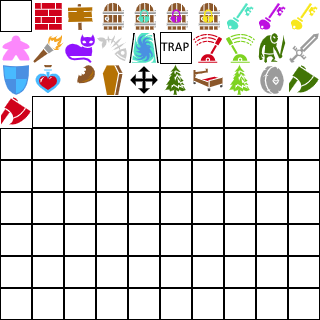
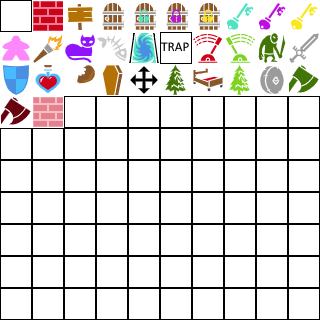
updating to use cell descriptors

Changed region(s): [[0.0, 0.2812, 0.2188, 0.4062], [0.0938, 0.0, 0.2188, 0.0938]]

diff --git a/public/scripts/cells.js b/public/scripts/cells.js
@@ -29,126 +29,145 @@ const CELL_TREE_CHOPPABLE = 27;
 const CELL_WHET_STONE = 28;
 const CELL_AXE_USABLE = 29;
 const CELL_AXE_DULL = 30;
+const CELL_FAKE_WALL = 31;
 
-let cellSprites = {};
-cellSprites[CELL_BED]=SPRITE_BED;
-cellSprites[CELL_TREE_CHOPPABLE]=SPRITE_TREE_CHOPPABLE;
-cellSprites[CELL_WHET_STONE]=SPRITE_WHET_STONE;
-cellSprites[CELL_AXE_USABLE]=SPRITE_AXE_USABLE;
-cellSprites[CELL_AXE_DULL]=SPRITE_AXE_DULL;
-cellSprites[CELL_TREE]=SPRITE_TREE;
-cellSprites[CELL_HEALTH_POTION]=SPRITE_HEALTH_POTION;
-cellSprites[CELL_CHICKEN_LEG]=SPRITE_CHICKEN_LEG;
-cellSprites[CELL_COFFIN]=SPRITE_COFFIN;
-cellSprites[CELL_MINION]=SPRITE_MINION;
-cellSprites[CELL_BROADSWORD]=SPRITE_BROADSWORD;
-cellSprites[CELL_SHIELD]=SPRITE_SHIELD;
-cellSprites[CELL_LEVER_RED]=SPRITE_LEVER_RED;
-cellSprites[CELL_LEVER_GREEN]=SPRITE_LEVER_GREEN;
-cellSprites[CELL_WALL]=SPRITE_WALL;
-cellSprites[CELL_AVATAR]=SPRITE_AVATAR;
-cellSprites[CELL_SIGN]=SPRITE_SIGN;
-cellSprites[CELL_WOOD_DOOR]=SPRITE_WOOD_DOOR;
-cellSprites[CELL_WOOD_DOOR_CYAN]=SPRITE_WOOD_DOOR_CYAN;
-cellSprites[CELL_WOOD_DOOR_MAGENTA]=SPRITE_WOOD_DOOR_MAGENTA;
-cellSprites[CELL_WOOD_DOOR_YELLOW]=SPRITE_WOOD_DOOR_YELLOW;
-cellSprites[CELL_KEY_CYAN]    = SPRITE_KEY_CYAN;
-cellSprites[CELL_KEY_MAGENTA] = SPRITE_KEY_MAGENTA;
-cellSprites[CELL_KEY_YELLOW]  = SPRITE_KEY_YELLOW;
-cellSprites[CELL_TORCH] = SPRITE_TORCH;
-cellSprites[CELL_CAT] = SPRITE_CAT;
-cellSprites[CELL_FISHBONE] = SPRITE_FISHBONE;
-cellSprites[CELL_MAGIC_PORTAL] = SPRITE_MAGIC_PORTAL;
+let cellDescriptors = {};
 class Cells{
+    static load(){
+        cellDescriptors[CELL_FAKE_WALL] = loadJSON("/assets/templates/cells/fakeWall.json");
+        cellDescriptors[CELL_FLOOR] = loadJSON("/assets/templates/cells/floor.json");
+        cellDescriptors[CELL_WALL] = loadJSON("/assets/templates/cells/wall.json");
+        cellDescriptors[CELL_SIGN] = loadJSON("/assets/templates/cells/sign.json");
+        cellDescriptors[CELL_WOOD_DOOR] = loadJSON("/assets/templates/cells/door.json");
+        cellDescriptors[CELL_WOOD_DOOR_CYAN] = loadJSON("/assets/templates/cells/cyanDoor.json");
+        cellDescriptors[CELL_WOOD_DOOR_MAGENTA] = loadJSON("/assets/templates/cells/magentaDoor.json");
+        cellDescriptors[CELL_WOOD_DOOR_YELLOW] = loadJSON("/assets/templates/cells/yellowDoor.json");
+        cellDescriptors[CELL_KEY_CYAN] = loadJSON("/assets/templates/cells/cyanKey.json");
+        cellDescriptors[CELL_KEY_MAGENTA] = loadJSON("/assets/templates/cells/magentaKey.json");
+        cellDescriptors[CELL_KEY_YELLOW] = loadJSON("/assets/templates/cells/yellowKey.json");
+        cellDescriptors[CELL_AVATAR] = loadJSON("/assets/templates/cells/avatar.json");
+        cellDescriptors[CELL_TORCH] = loadJSON("/assets/templates/cells/torch.json");
+        cellDescriptors[CELL_CAT] = loadJSON("/assets/templates/cells/cat.json");
+        cellDescriptors[CELL_FISHBONE] = loadJSON("/assets/templates/cells/fishbone.json");
+        cellDescriptors[CELL_MAGIC_PORTAL] = loadJSON("/assets/templates/cells/magicPortal.json");
+        cellDescriptors[CELL_TRAP] = loadJSON("/assets/templates/cells/trap.json");
+        cellDescriptors[CELL_LEVER_RED] = loadJSON("/assets/templates/cells/redLever.json");
+        cellDescriptors[CELL_LEVER_GREEN] = loadJSON("/assets/templates/cells/greenLever.json");
+        cellDescriptors[CELL_MINION] = loadJSON("/assets/templates/cells/minion.json");
+        cellDescriptors[CELL_BROADSWORD] = loadJSON("/assets/templates/cells/broadsword.json");
+        cellDescriptors[CELL_SHIELD] = loadJSON("/assets/templates/cells/shield.json");
+        cellDescriptors[CELL_HEALTH_POTION] = loadJSON("/assets/templates/cells/healthPotion.json");
+        cellDescriptors[CELL_CHICKEN_LEG] = loadJSON("/assets/templates/cells/chickenLeg.json");
+        cellDescriptors[CELL_COFFIN] = loadJSON("/assets/templates/cells/coffin.json");
+        cellDescriptors[CELL_MOVE] = loadJSON("/assets/templates/cells/move.json");
+        cellDescriptors[CELL_TREE] = loadJSON("/assets/templates/cells/tree.json");
+        cellDescriptors[CELL_BED] = loadJSON("/assets/templates/cells/bed.json");
+        cellDescriptors[CELL_TREE_CHOPPABLE] = loadJSON("/assets/templates/cells/choppableTree.json");
+        cellDescriptors[CELL_WHET_STONE] = loadJSON("/assets/templates/cells/whetStone.json");
+        cellDescriptors[CELL_AXE_USABLE] = loadJSON("/assets/templates/cells/usableAxe.json");
+        cellDescriptors[CELL_AXE_DULL] = loadJSON("/assets/templates/cells/dullAxe.json");
+    }
     static getSprite(cell){
-        return cellSprites[cell];
+        let descriptor = cellDescriptors[cell];
+        if(descriptor!=null){
+            return descriptor.sprite;
+        }else{
+            return null;
+        }
     }
     static isBlocking(cell){
-        return cell == CELL_WALL 
-            || cell == CELL_TREE
-            || cell == CELL_LEVER_GREEN
-            || cell == CELL_LEVER_RED
-            || cell == CELL_MINION
-            || cell == CELL_BED
-            || cell == CELL_WHET_STONE
-            || Cells.isSign(cell) 
-            || Cells.isLocked(cell);
+        if(Cells.isSign(cell) || Cells.isLocked(cell)){
+            return true;
+        }else{
+            let descriptor = cellDescriptors[cell];
+            if(descriptor!=null){
+                return descriptor.isBlocking || false;
+            }else{
+                return false;
+            }
+        }
     }
     static isLocked(cell){
         return Cells.getKey(cell)!=null;
     }
     static isTrigger(cell){
-        return cell == CELL_TRAP
-            || cell == CELL_LEVER_GREEN
-            || cell == CELL_LEVER_RED
-            || cell == CELL_WHET_STONE
-            || cell == CELL_BED
+        let descriptor = cellDescriptors[cell];
+        if(descriptor!=null){
+            return descriptor.isTrigger || false;
+        }else{
+            return false;
+        }
     }
     static isCreature(cell){
-        return cell == CELL_MINION;
+        let descriptor = cellDescriptors[cell];
+        if(descriptor!=null){
+            return descriptor.isCreature || false;
+        }else{
+            return false;
+        }
     }
     static getThreatLevel(cell){
-        if(cell == CELL_MINION){
-            return 1;
+        let descriptor = cellDescriptors[cell];
+        if(descriptor!=null){
+            return descriptor.threatLevel || 0;
         }else{
             return 0;
         }
     }
     static getKey(cell){
-        if(cell==CELL_WOOD_DOOR_CYAN){
-            return CELL_KEY_CYAN
-        }else if(cell==CELL_WOOD_DOOR_MAGENTA){
-            return CELL_KEY_MAGENTA;
-        }else if(cell==CELL_WOOD_DOOR_YELLOW){
-            return CELL_KEY_YELLOW;
-        }else if(cell==CELL_CAT){
-            return CELL_FISHBONE;
+        let descriptor = cellDescriptors[cell];
+        if(descriptor!=null){
+            return descriptor.key;
         }else{
             return null;
         }
     }
     static unlock(cell){
-        if(cell==CELL_WOOD_DOOR_CYAN){
-            return CELL_WOOD_DOOR;
-        }else if(cell==CELL_WOOD_DOOR_MAGENTA){
-            return CELL_WOOD_DOOR;
-        }else if(cell==CELL_WOOD_DOOR_YELLOW){
-            return CELL_WOOD_DOOR;
-        }else if(cell==CELL_CAT){
-            return CELL_FLOOR;
+        let descriptor = cellDescriptors[cell];
+        if(descriptor!=null){
+            return descriptor.unlocked;
         }else{
-            return cell;
+            return null;
         }
     }
     static isSign(cell){
-        return cell == CELL_SIGN;
+        let descriptor = cellDescriptors[cell];
+        if(descriptor!=null){
+            return descriptor.isSign || false;
+        }else{
+            return false;
+        }
     }
     static isExit(cell){
-        return cell == CELL_WOOD_DOOR 
-            || cell == CELL_MAGIC_PORTAL;
+        let descriptor = cellDescriptors[cell];
+        if(descriptor!=null){
+            return descriptor.isExit || false;
+        }else{
+            return false;
+        }
     }
     static isItem(cell){
-        return cell == CELL_KEY_CYAN 
-            || cell == CELL_KEY_MAGENTA 
-            || cell == CELL_KEY_YELLOW 
-            || cell == CELL_BROADSWORD
-            || cell == CELL_SHIELD
-            || cell == CELL_TORCH 
-            || cell == CELL_HEALTH_POTION
-            || cell == CELL_CHICKEN_LEG
-            || cell == CELL_AXE_DULL
-            || cell == CELL_AXE_USABLE
-            || cell == CELL_FISHBONE;
+        let descriptor = cellDescriptors[cell];
+        if(descriptor!=null){
+            return descriptor.isItem || false;
+        }else{
+            return false;
+        }
     }
     static isLit(cell,dx,dy){
-        if(cell==CELL_AVATAR){
-            if(Math.abs(dx)>1 || Math.abs(dy)>1){
-                return Avatar.hasInventory(CELL_TORCH);
-            }else{
+        let descriptor = cellDescriptors[cell];
+        if(descriptor!=null){
+            if(descriptor.isLit || false){
                 return true;
+            }else if(descriptor.isAvatar || false){
+                if(Math.abs(dx)>1 || Math.abs(dy)>1){
+                    return Avatar.hasInventory(CELL_TORCH);//TODO: check through inventory for something lit
+                }else{
+                    return true;
+                }
             }
         }else{
-            return cell == CELL_TORCH;
+            return false;
         }
     }
 }

diff --git a/public/scripts/sprites.js b/public/scripts/sprites.js
@@ -85,6 +85,8 @@ class Sprites{
         spriteImages[SPRITE_INVENTORY_PANEL]   = loadImage('assets/images/inventory-panel.png');
     }
     static render(sprite,x,y){
-        image(spriteImages[sprite],x,y);
+        if(spriteImages[sprite]!=null){
+            image(spriteImages[sprite],x,y);
+        }
     }
 }

diff --git a/public/scripts/game.js b/public/scripts/game.js
@@ -9,6 +9,7 @@ const UPDATE_TIMER = 200;
 let updateTimer = 0;
 class Game{
     static preload(){
+        Cells.load();
         RoomData.load();
         RoomTemplates.load();
         Avatar.load();
